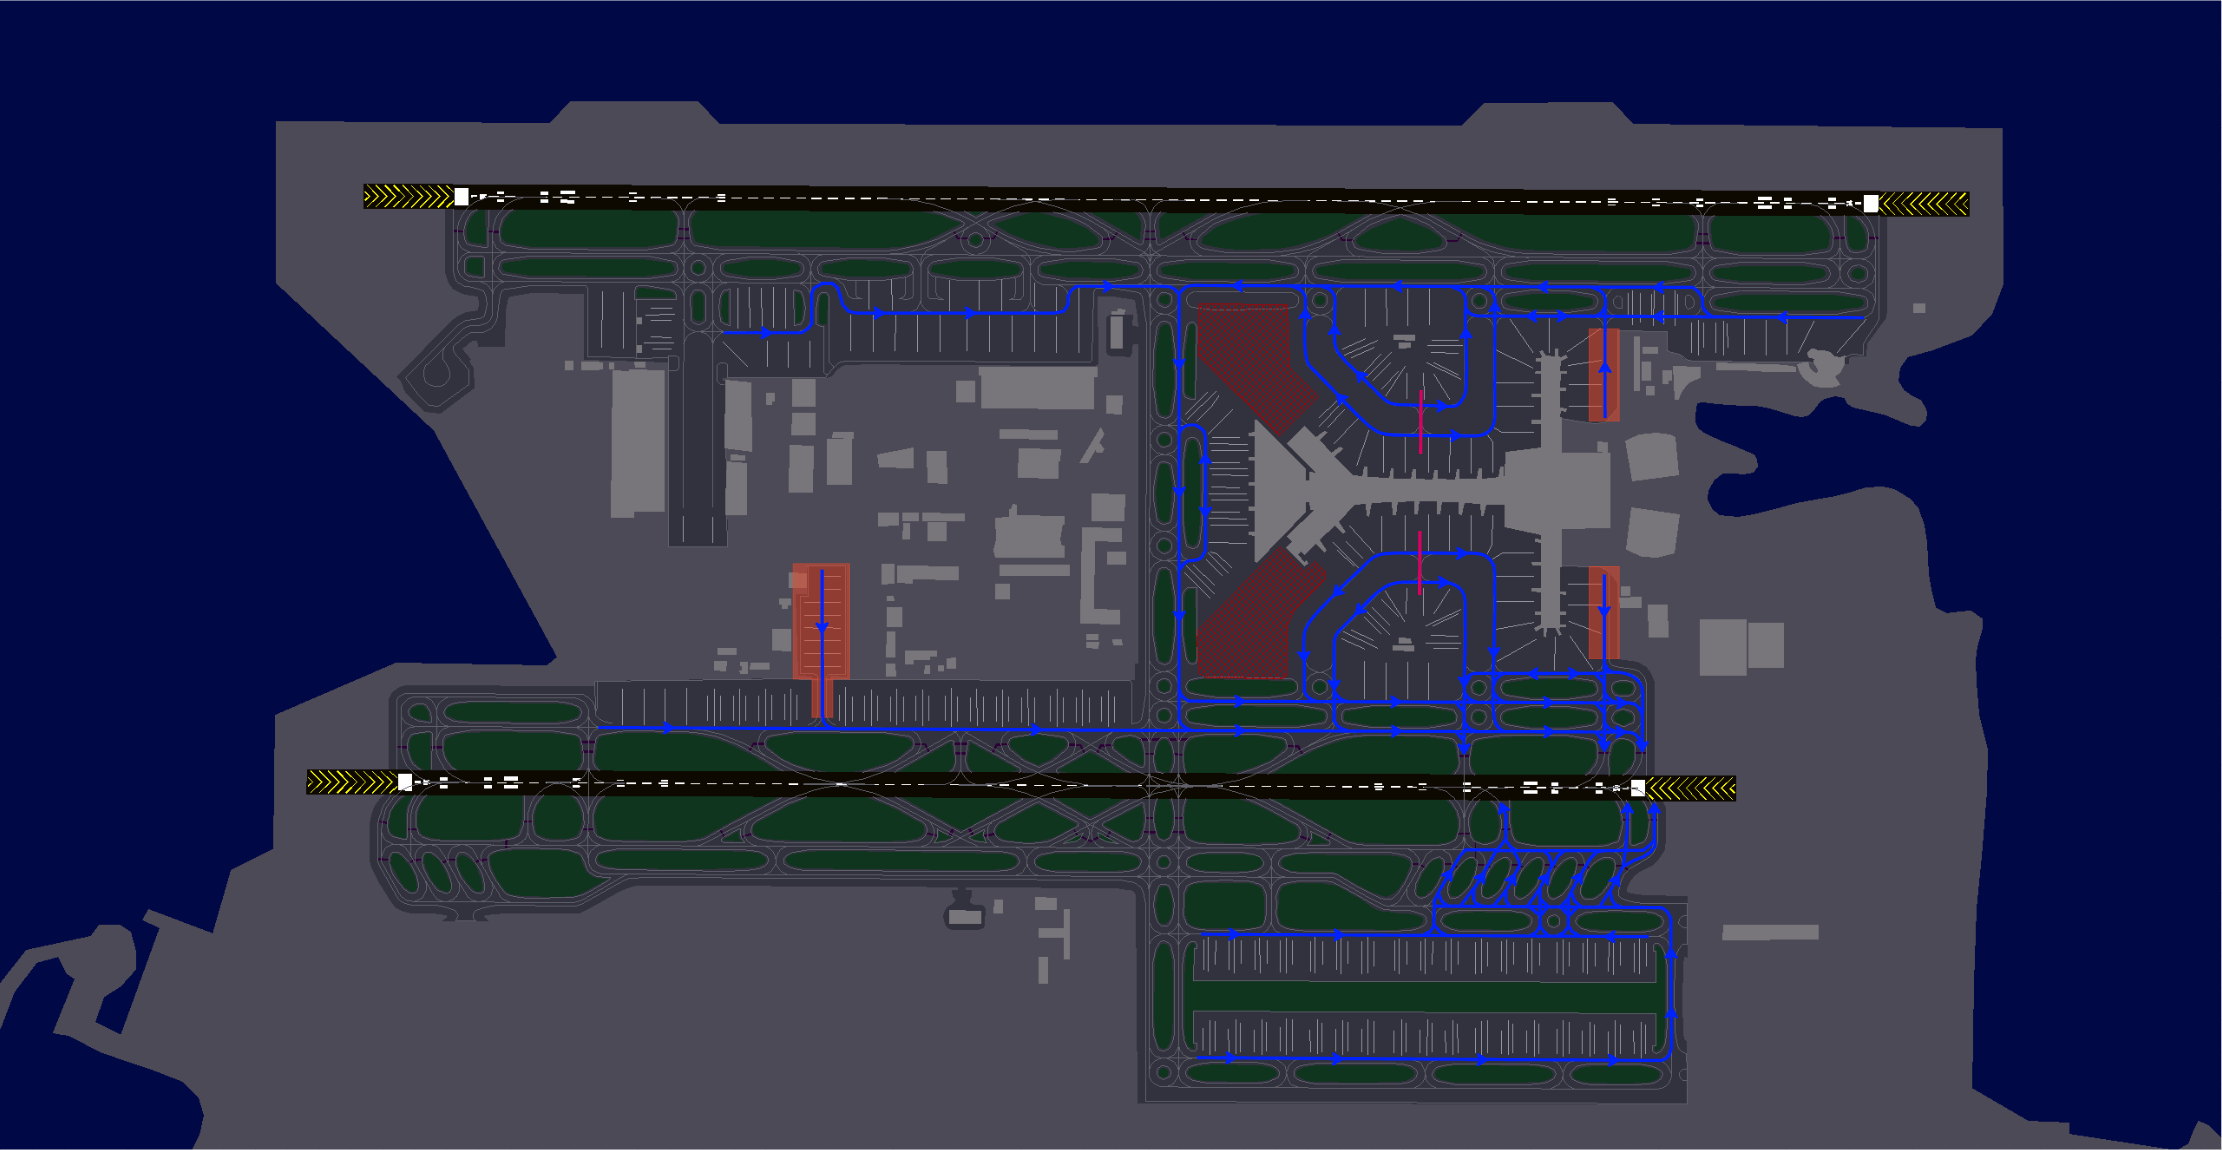
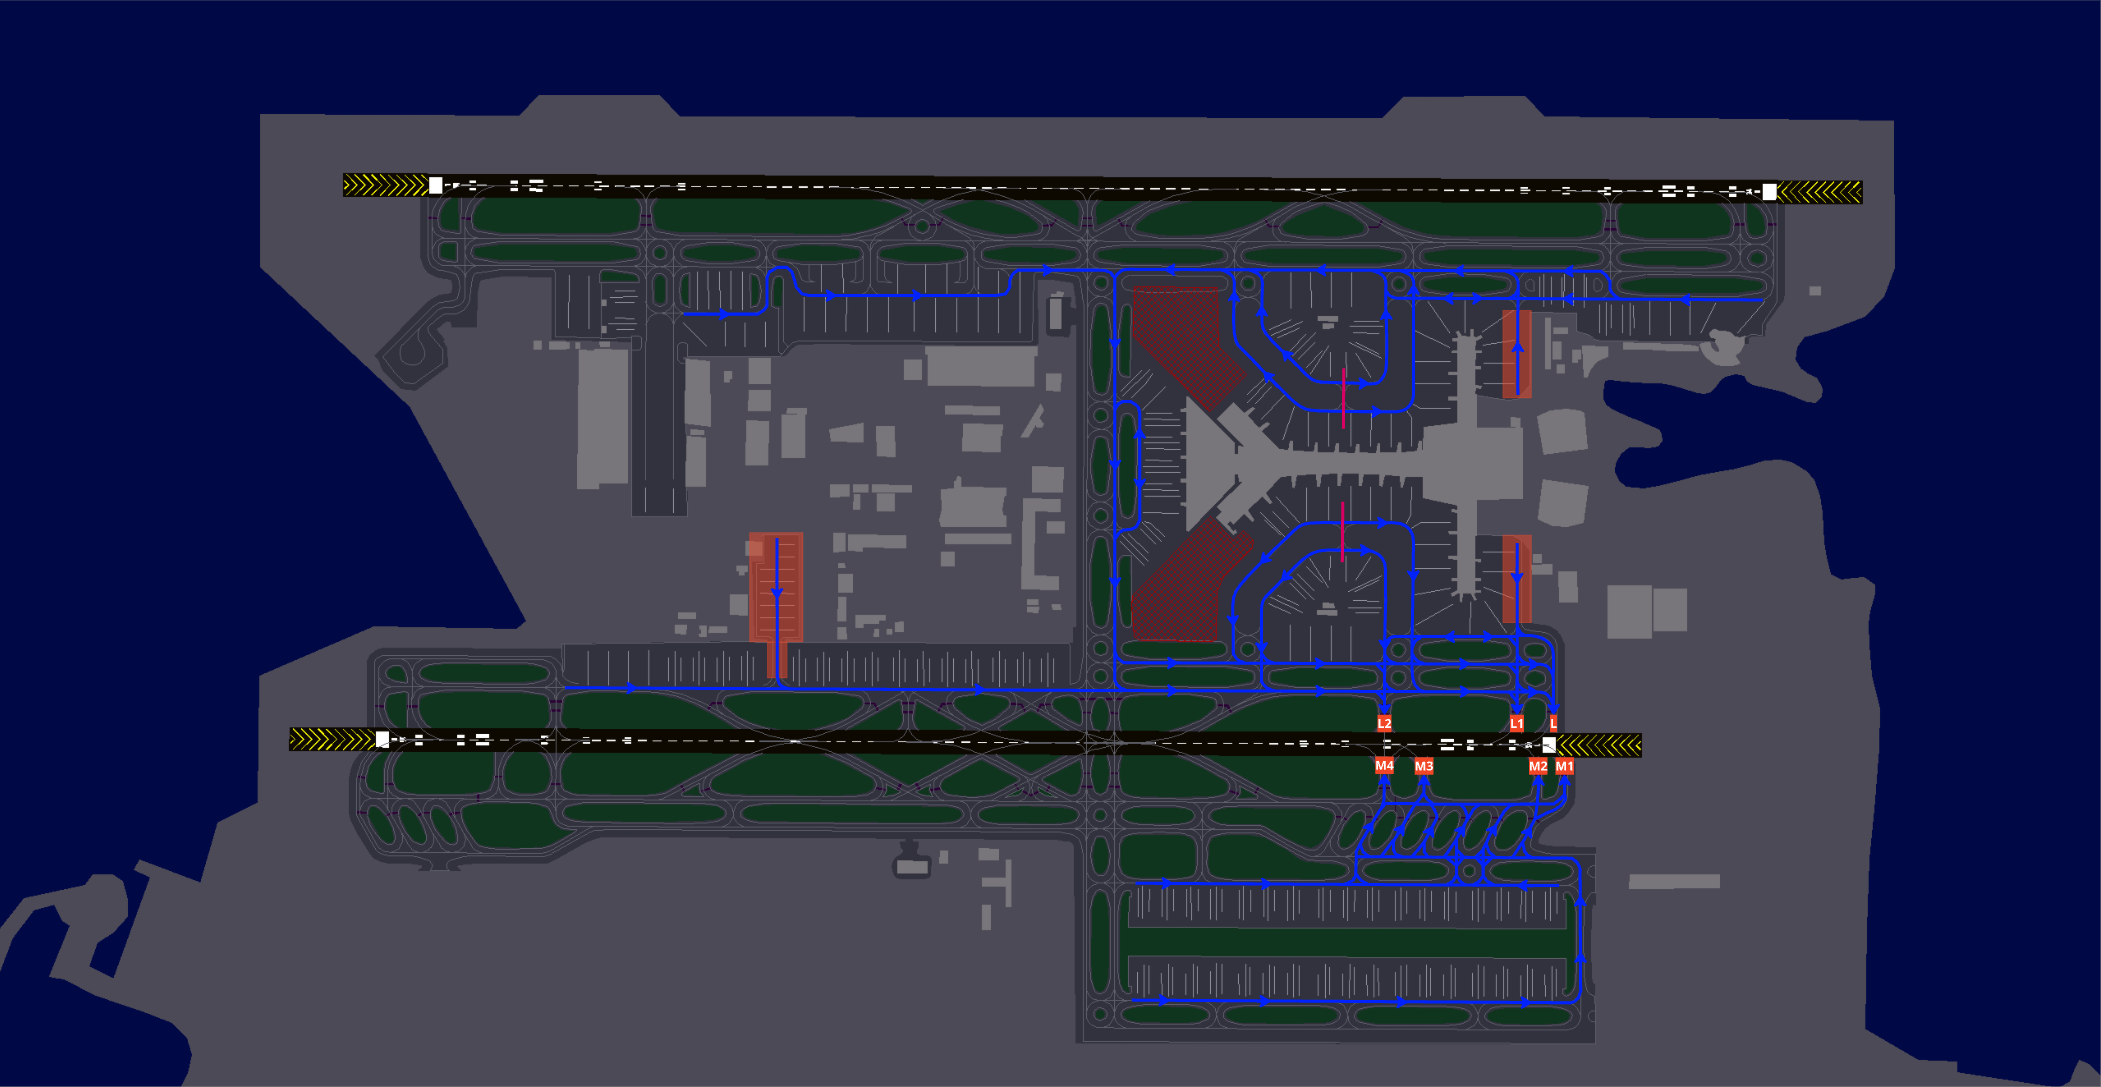
34R departure taxi routes

diff --git a/docs/aerodrome/doha-hamad/gmc.md b/docs/aerodrome/doha-hamad/gmc.md
@@ -157,63 +157,118 @@ To deconflict traffic, and to reduce the length of taxi clearances, intermediate
 
     **Pilot**: "Taxi via W2, hold short J, QTR98K."
 
-### 3.3.2 Runway 34L departure taxi procedures
-#### 3.3.2.1 Concourse A, C (West), D, and Remote Transfer H.
-Aircraft that have pushed back onto taxiway W shall taxi to holding point L or L1.
+### 3.3.2 Runway 16L departure taxi procedures
 
-Aircraft that have pushed back onto taxiway J shall taxi to holding points L2, L1, or L.
+### 3.3.3 Runway 16R departure taxi procedures
 
-Aircraft that have pushed back onto taxiway H shall taxi to J or K and proceed holding points L2, L1, or L.
+### 3.3.4 Runway 34L departure taxi procedures
+#### 3.3.4.1 Concourse A, C (West), D, and Remote Transfer H.
+Aircraft that have pushed back onto taxiway W shall taxi via L or L1.
 
-Aircraft that have pushed back onto taxiways W1, W2, W3, or W4 shall taxi to J or K and proceed to holding points L2, L1, or L.
+Aircraft that have pushed back onto taxiway J shall taxi via L2, L1, or L.
 
-#### 3.3.2.2 Concourse B, C (East), E, and Remote Transfer G
+Aircraft that have pushed back onto taxiways W1, W2, W3, or W4 shall taxi via J or K and continue to holding points L2, L1, or L.
+
+#### 3.3.4.2 Concourse B, C (East), E, and Remote Transfer G
 Aircraft that have pushed back onto taxiways E, E1, E2, E3, or E4 shall taxi to join C, S, and K and proceed to holding points L2, L1, or L.
 
 Aircraft that have pushed back onto taxiway D shall taxi to join C, S, and K and proceed to holding points L2, L1, or L.
 
 Aircraft that have pushed back onto taxiway C shall taxi to join S, K, and proceed to holding points L2, L1, or L.
 
-#### 3.3.2.3 Central Concourse
+#### 3.3.4.3 Central Concourse
 Aircraft that have pushed back onto taxiway N shall taxi to join S, K, and continue to holding points L2, L1, or L.
 
-#### 3.3.2.4 Apron Cargo
+#### 3.3.4.4 Apron Cargo
 Aircraft that have pushed back onto taxiway F shall taxi to join C, S, K, and continue to holding point L2, L1, or L.
 
-#### 3.3.2.5 Apron V
+#### 3.3.4.5 Apron V
 Aircraft that have pushed back onto taxiway V shall taxi to join C, S, K, and continue to holding point L2, L1, or L.
 
 Aircraft that have pushed back onto taxiway C shall taxi to join S, K, and continue to holding point L2, L1, or L.
 
-#### 3.3.2.6 Apron 4
+#### 3.3.4.6 Apron 4
 Aircraft that have pushed back onto taxiway Q shall taxi to join F, C, S, K, and continue to holding point L2, L1, or L.
 
-#### 3.3.2.7 Apron 5
+#### 3.3.4.7 Apron 5
 Aircraft that have pushed back onto taxiway K shall taxi to join holding point L2, L1, or L.
 
 Aircraft that have pushed back onto taxiway Y shall taxi to join K and continue to holding point L2, L1, or L.
 
-#### 3.3.2.8 Apron 6
+#### 3.3.4.8 Apron 6
 Aircraft that have pushed back onto taxiway S2 shall taxi to join S3, P, M, and continue to holding point M1, M2, or M3.
 
 Aircraft that have pushed back onto taxiway S4 shall taxi to join P, M, and continue to holding point M1, M2, or M3.
 
+### 3.3.5 Runway 34R departure taxi procedures
+#### 3.3.5.1 Concourse A, C (West), D, and Remote Transfer H.
+Aircraft that have pushed back onto taxiway W shall taxi via H, then proceed through either W1 or W2, and continue on J, R, and B to reach holding points A2, A1, or A.
+
+Aircraft that have pushed back onto taxiway J shall taxi via R and B to reach holding points A2, A1, or A.
+
+Aircraft that have pushed back onto taxiways W1, W2, W3, or W4 shall taxi via J, R, and B to reach holding points A2, A1, or A.
+
+#### 3.3.5.2 Concourse B, C (East), E, and Remote Transfer G
+Aircraft that have pushed back onto taxiways E, E1, E2, E3, or E4 shall taxi to join B to reach holding points A2, A1, or A.
+
+Aircraft that have pushed back onto taxiway D shall taxi to join B to reach holding points A2, A1, or A.
+
+Aircraft that have pushed back onto taxiway C shall taxi to Join B to reach holding points A2, A1, or A.
+
+#### 3.3.5.3 Central Concourse
+Aircraft that have pushed back onto taxiway N shall taxi to join R, B, and continue to reach holding points A2, A1, or A.
+
+#### 3.3.5.4 Apron Cargo
+Aircraft that have pushed back onto taxiway F shall taxi to join B to reach holding points A2, A1, or A.
+
+#### 3.3.5.5 Apron V
+Aircraft that have pushed back onto taxiway V shall taxi to join C to reach holding points A2, A1, or A.
+
+Aircraft that have pushed back onto taxiway C shall taxi to reach holding points A2, A1, or A.
+
+#### 3.3.5.6 Apron 4
+Aircraft that have pushed back onto taxiway Q shall taxi to join B to reach holding points A2, A1, or A.
+
+#### 3.3.5.7 Apron 5
+Aircraft that have pushed back onto taxiway K shall taxi to join R and B to reach holding points A2, A1, or A.
+
+Aircraft that have pushed back onto taxiway Y shall taxi to join K, R, and B to reach holding points A2, A1, or A.
+
+#### 3.3.5.8 Apron 6
+Aircraft that have pushed back onto taxiway S2 and/or S4 shall taxi to join R1, cross runway 34L, and join R and B to reach holding points A2, A1, or A.
+
 ## 3.4 Arrival taxi procedures
 ### 3.4.1 General arrival taxi procedures
 
-### 3.4.2 Dual runway 30L arrival taxi procedures
+### 3.4.2 Runway 16L arrival taxi procedures
 
-### 3.4.3 Dual runway 30R arrival taxi procedures
+### 3.4.3 Runway 16R arrival taxi procedures
 
-### 3.4.4 Single runway 30L arrival taxi procedures
+### 3.4.4 Runway 34L arrival taxi procedures
+#### 3.4.4.1 Concourse A, C (West), D, and Remote Transfer H
 
-### 3.4.5 Single runway 30R arrival taxi procedures
 
-### 3.4.6 Dual runway 12L arrival taxi procedures
+#### 3.4.4.2 Concourse B, C (East), E, and Remote Transfer G
 
-### 3.4.7 Single runway 12L arrival taxi procedure
 
-### 3.4.8 Single runway 12R arrival taxi procedure
+#### 3.4.4.3 Central Concourse
+
+
+#### 3.3.4.4 Apron Cargo
+
+
+#### 3.3.4.5 Apron V
+
+
+#### 3.3.4.6 Apron 4
+
+
+#### 3.3.4.7 Apron 5
+
+
+#### 3.3.4.8 Apron 6
+
+### 3.4.5 Runway 34R arrival taxi procedures
 
 ### 3.4.9 Stand allocation procedure
 |       Area       |        Stand Allocation       |                                                      Operator                                                     |

diff --git a/docs/aerodrome/doha-hamad/appendix_taxi.md b/docs/aerodrome/doha-hamad/appendix_taxi.md
@@ -4,8 +4,6 @@ Blue lines indicate departure taxi routes. Yellow lines indicate arrival taxi ro
 
 Commonly used intermediate holding points are shown in white. Runway holding points are shown in red.
 
-Pink indicates areas not available in some sceneries and shall not be used unless requested.
-
 Taxiways with a red background are not code F (A380/B747-8) compatible.
 
 ## 6.2 Runway 16L
